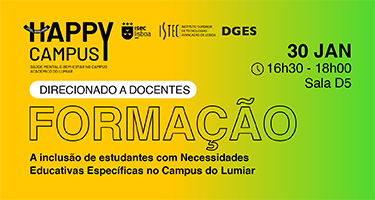
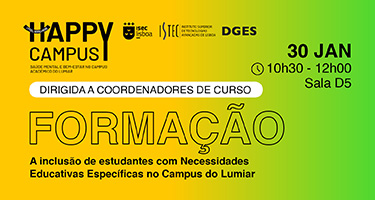
novo horario

diff --git a/evento_10.html b/evento_10.html
@@ -57,7 +57,7 @@
   <div class="main-noticia-card">
       <div class="noticia-main-text">
         <div class="noticia-main-img3">
-          <img src="images/evento_10_mainimg.jpg" alt="Noticia 3" class="noticia-main-img" style="height: 47vh; max-width: 100%;">
+          <img src="images/evento_10img.jpg" alt="Noticia 3" class="noticia-main-img" style="height: 47vh; max-width: 100%;">
         </div>
       <div class="noticia-title-and-date">
         <p class="noticia-main-p"> A inclusão de estudantes com Necessidades Educativas Específicas no Campus do Lumiar
@@ -68,7 +68,7 @@
       </div>
 
       <p>
-        No âmbito do projeto "Happy Campus – I feel good here", decorrerá no próximo dia <strong>30 de janeiro</strong>, entre as 16h30 e as 18h00, 
+        No âmbito do projeto "Happy Campus – I feel good here", decorrerá no próximo dia <strong>30 de janeiro</strong>, entre as 10h30 e as 12h00, 
         na sala D5, uma <strong>formação para professores coordenadores de ciclo de estudos do ISEC Lisboa e do ISTEC</strong>, dinamizada pelo docente Marco Ferreira.
       </p>
       <p>

diff --git a/index.html b/index.html
@@ -291,7 +291,7 @@
       <div class='atividades-cards'>
 
 
-        <div class='atividades-card-1'>
+        <div class='atividades-card-1' style="margin-left: 2vh;">
           <img src="images/promocao_prevencao.jpg" alt="Prom-Prev">
           <p> Promoção e Prevenção </p>
 
@@ -313,7 +313,7 @@
           <p> Desporto, Cultura e Lazer </p>
           <a href="desporto.html">Saber Mais</a>
         </div>
-        <div class='atividades-card-1'>
+        <div class='atividades-card-1' style="margin-right: 3vh;">
           <img src="images/voluntariado_ambiente.jpg" alt="Ambiente">
           <p> Ambiente e Voluntariado </p>
           <a href="ambiente.html">Saber Mais</a>
@@ -708,7 +708,7 @@
           </div>
         </a>
 
-        <a href="noticia_1.html" class="news-button" role="button">
+        <a href="noticia_1.html" class="news-button" role="button" style="margin-right: 3vh;">
           <div class='noticias-card-1'>
             <img src="images/dia_isec_cropped.jpg" alt="Psicologia">
             <div class="text">

diff --git a/eventos.html b/eventos.html
@@ -63,7 +63,7 @@
 
       <a href="evento_10.html" class="news-button" role="button">
         <div class='noticias-card-1'>
-          <img src="images/evento_10_thumb.jpg" alt="Psicologia">
+          <img src="images/evento_10thumb.jpg" alt="Psicologia">
           <div class="text">
             <p class="noticia-date"> 30/01/25 </p>
             <p class="equipa-name"> A inclusão de estudantes com Necessidades Educativas Específicas no Campus do Lumiar
